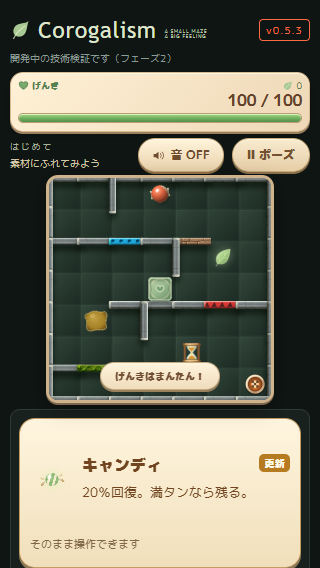
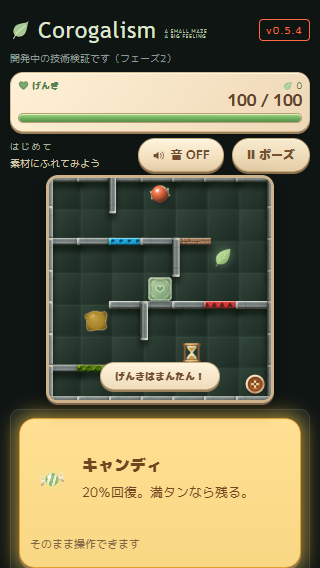
fix(T-244): illuminate whole tutorial card on updates

Changed region(s): [[0.0, 0.6884, 1.0, 1.0], [0.9062, 0.0299, 0.9375, 0.0599]]

diff --git a/src/ui/tutorial.js b/src/ui/tutorial.js
@@ -1,4 +1,4 @@
-/** 接触説明の差し替えと穏やかな更新通知。物理時間とは独立し、非表示タブでは進めない。 */
+/** 接触説明の差し替えとカード全体の更新通知。物理時間とは独立し、非表示タブでは進めない。 */
 import { TUTORIAL, REST, STICKY, RECOVERY, LEAF, HOURGLASS } from '../config/gameConfig.js';
 import { walls, items, floors, drawGuideArt } from './guide.js';
 import { createLessonTiming } from '../game/tutorialLessons.js';
@@ -19,14 +19,17 @@ export function createTutorialUi() {
    panel.querySelector('.tutorial-context').textContent=walls.some(w=>w[0]===id)?'速さと壁の素材で、げんきの減り方が変わります。':['hourglass','rest'].includes(id)?'時間の加算はチャレンジで有効です。':'';
    drawGuideArt(panel.querySelector('canvas'),id);
    panel.dataset.lesson=id;
-   noticeMs=TUTORIAL.updateNoticeMs;
+   noticeMs=TUTORIAL.flashMs;
    flash?.cancel();
-   if(!matchMedia('(prefers-reduced-motion: reduce)').matches) flash=panel.animate([
-    {boxShadow:'0 3px #8e7957, inset 0 0 0 0px #d69426',borderColor:'#c9b18b'},
-    {boxShadow:'0 3px #8e7957, 0 0 10px #e5b75099, inset 0 0 0 3px #d69426',borderColor:'#b67b20',offset:.12},
-    {boxShadow:'0 3px #8e7957, 0 0 10px #e5b75099, inset 0 0 0 3px #d69426',borderColor:'#b67b20',offset:.45},
-    {boxShadow:'0 3px #8e7957, inset 0 0 0 0px #d69426',borderColor:'#c9b18b'},
-   ],{duration:TUTORIAL.flashMs,easing:'ease-out'});
+   if(!matchMedia('(prefers-reduced-motion: reduce)').matches){
+    const quiet={boxShadow:'0 3px #8e7957, 0 0 18px 4px #ffc94700, inset 0 0 0 150px #ffd15a00',borderColor:'#c9b18b'};
+    const bright={boxShadow:'0 3px #8e7957, 0 0 18px 4px #ffc947bb, inset 0 0 0 150px #ffd15ab3',borderColor:'#e79a19'};
+    flash=panel.animate([
+     {...quiet,offset:0},{...bright,offset:.10},{...bright,offset:.25},
+     {...quiet,offset:.45},{...bright,offset:.60},{...bright,offset:.75},
+     {...quiet,offset:1},
+    ],{duration:TUTORIAL.flashMs,easing:'ease-in-out'});
+   }
   }
   panel.classList.toggle('is-updated',noticeMs>0);
   lastActive=id;

diff --git a/style.css b/style.css
@@ -473,7 +473,7 @@ body[data-game-mode="tutorial"] .tutorial-lesson{display:block}
 .tutorial-play-state{grid-column:1/4;font-size:11px;color:#806847}
 body[data-game-mode="tutorial"] #game-status{display:none}
 
-/* 短い金色の縁取りと更新ラベル。文字や盤面の位置は動かさない。 */
-.tutorial-lesson h2{position:relative;padding-right:42px}
-.tutorial-lesson h2::after{content:'更新';position:absolute;right:0;top:1px;padding:2px 5px;border-radius:5px;background:#b67b20;color:#fff9e7;font-size:10px;line-height:1.4;letter-spacing:.03em;opacity:0}
-.tutorial-lesson.is-updated h2::after{opacity:1}
+/* 動きを減らす設定では、点滅の代わりに金色の面を短く表示。 */
+@media (prefers-reduced-motion: reduce){
+ .tutorial-lesson.is-updated{border-color:#e79a19;box-shadow:0 3px #8e7957, inset 0 0 0 150px #ffd15a80}
+}

diff --git a/src/config/gameConfig.js b/src/config/gameConfig.js
@@ -157,4 +157,4 @@ export const STICKY = { firstStage: 3, interval: 8, durationSec: 3, shortenSec: 
   motionThreshold: 6, motionReset: 2, motionGapMs: 250, touchSuppressMs: 450 };
 
 /** チュートリアル。表示前の間と更新時のハイライト時間を調整できる。 */
-export const TUTORIAL = { contactDelayMs: 700, flashMs: 1200, updateNoticeMs: 2400, hp: 100, minHp: 1, size: 7 };
+export const TUTORIAL = { contactDelayMs: 700, flashMs: 1800, hp: 100, minHp: 1, size: 7 };

diff --git a/index.html b/index.html
@@ -23,7 +23,7 @@
         <span class="brand-word">Corogalism</span>
       </h1>
       <p class="brand-tagline">A SMALL MAZE<br>A BIG FEELING</p>
-      <span class="badge">v0.5.3</span>
+      <span class="badge">v0.5.4</span>
       </div>
       <p class="sub" id="dev-note">開発中の技術検証です（フェーズ2）</p>
     </div>

diff --git a/precache.js b/precache.js
@@ -1,4 +1,4 @@
-self.PRECACHE_VERSION = '1355ddc469163648';
+self.PRECACHE_VERSION = '7c53189c215b6ffe';
 self.PRECACHE_FILES = [
   "assets/audio/bgm.wav",
   "assets/audio/rolling-loop.wav",

diff --git a/docs/tutorial-continuous.md b/docs/tutorial-continuous.md
@@ -14,3 +14,7 @@
 枠の内側だけでは気づきにくい実機フィードバックを受け、更新時に金色の枠と外側の淡い光を1.2秒表示。見出し右に「更新」を2.4秒表示する。見出しの表示領域は常時確保し、迷路や説明枠の位置・寸法を変えない。動きを減らす設定ではアニメーションを省き、文字の通知を残す。説明の保持・0.7秒後の差し替え・プレイの無停止は維持。
 
 検証: tutorial単体5件、ブラウザ320/390/576幅で通知・継続操作・説明保持・再挑戦・動きを減らす設定を確認。公開0d9ec07／Pages35443005784成功。正式URLの変更資材5件一致、3幅のブラウザ確認成功。仕様・規約レビュー指摘なし。
+
+## T-244 カード全体の更新演出（v0.5.4）
+
+さらに目立たせたいという実機フィードバックに対応。更新ラベルと見出し右の予約余白を削除。カード全体の金色の面と外周の光を1.8秒で2回強弱させる。文字・迷路・カードは動かさず、操作・説明保持・接触からの待ち時間は維持。動きを減らす設定では点滅せず金色の面を1.8秒表示する。

diff --git a/docs/handoff-codex.md b/docs/handoff-codex.md
@@ -1,5 +1,7 @@
 # Codexへの引き継ぎ（2026-09-12 更新）
 
+**v0.5.4（T-244）実装済み・公開確認待ち:** 説明カード全体が金色に2回光る1.8秒の演出へ変更。「更新」ラベルは削除。プレイの流れ・枠寸法は維持。
+
 **v0.5.3（T-243）公開確認済み・0d9ec07:** 更新通知を金色の枠1.2秒と「更新」表示2.4秒へ強化。説明保持と無停止の流れは維持。詳細docs/tutorial-continuous.md。
 
 **v0.5.2（T-242）公開確認済み・d80d893:** 説明による停止なし。初回素材のみ0.7秒後に説明を差し替え、枠を淡く光らせる。説明は次の更新まで保持。詳細docs/tutorial-continuous.md。

diff --git a/AGENTS.md b/AGENTS.md
@@ -14,6 +14,8 @@
 
 ## 2. 現在の状態
 
+**v0.5.4（T-244）実装済み・公開確認待ち:** 説明カード全体が金色に2回光る1.8秒の演出へ変更。「更新」ラベルは削除。プレイの流れ・枠寸法は維持。
+
 **v0.5.3（T-243）公開確認済み・0d9ec07:** 更新通知を金色の枠1.2秒と「更新」表示2.4秒へ強化。説明保持と無停止の流れは維持。詳細docs/tutorial-continuous.md。
 
 **v0.5.2（T-242）公開確認済み・d80d893:** 説明による停止なし。初回素材のみ0.7秒後に説明を差し替え、枠を淡く光らせる。説明は次の更新まで保持。詳細docs/tutorial-continuous.md。

diff --git a/CLAUDE.md b/CLAUDE.md
@@ -14,6 +14,8 @@
 
 ## 2. 現在の状態
 
+**v0.5.4（T-244）実装済み・公開確認待ち:** 説明カード全体が金色に2回光る1.8秒の演出へ変更。「更新」ラベルは削除。プレイの流れ・枠寸法は維持。
+
 **v0.5.3（T-243）公開確認済み・0d9ec07:** 更新通知を金色の枠1.2秒と「更新」表示2.4秒へ強化。説明保持と無停止の流れは維持。詳細docs/tutorial-continuous.md。
 
 **v0.5.2（T-242）公開確認済み・d80d893:** 説明による停止なし。初回素材のみ0.7秒後に説明を差し替え、枠を淡く光らせる。説明は次の更新まで保持。詳細docs/tutorial-continuous.md。

diff --git a/GEMINI.md b/GEMINI.md
@@ -14,6 +14,8 @@
 
 ## 2. 現在の状態
 
+**v0.5.4（T-244）実装済み・公開確認待ち:** 説明カード全体が金色に2回光る1.8秒の演出へ変更。「更新」ラベルは削除。プレイの流れ・枠寸法は維持。
+
 **v0.5.3（T-243）公開確認済み・0d9ec07:** 更新通知を金色の枠1.2秒と「更新」表示2.4秒へ強化。説明保持と無停止の流れは維持。詳細docs/tutorial-continuous.md。
 
 **v0.5.2（T-242）公開確認済み・d80d893:** 説明による停止なし。初回素材のみ0.7秒後に説明を差し替え、枠を淡く光らせる。説明は次の更新まで保持。詳細docs/tutorial-continuous.md。
